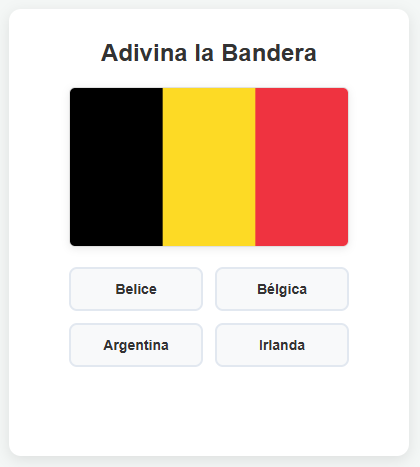
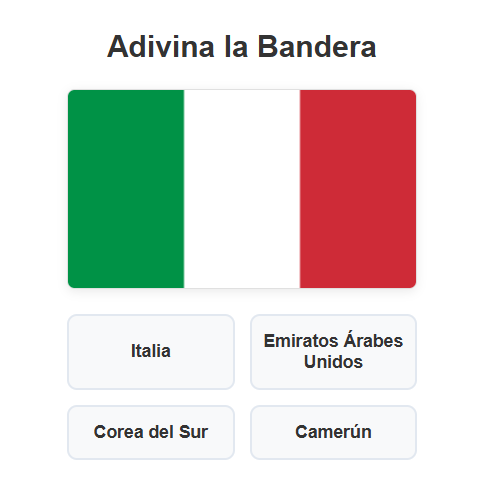
seccion proyectos

diff --git a/src/content.config.ts b/src/content.config.ts
@@ -20,10 +20,11 @@ const proyectos = defineCollection({
       pattern: ['**/*.md', '**/*.mdx'], 
       base: './src/content/proyectos'
   }),
-  schema: z.object({
+  schema: ({ image }) => z.object({
       titulo: z.string(),
       descripcion: z.string(),
       autor: z.string(),
+      imagen: image(), 
       tags: z.array(z.string()).optional()
   })
 });
